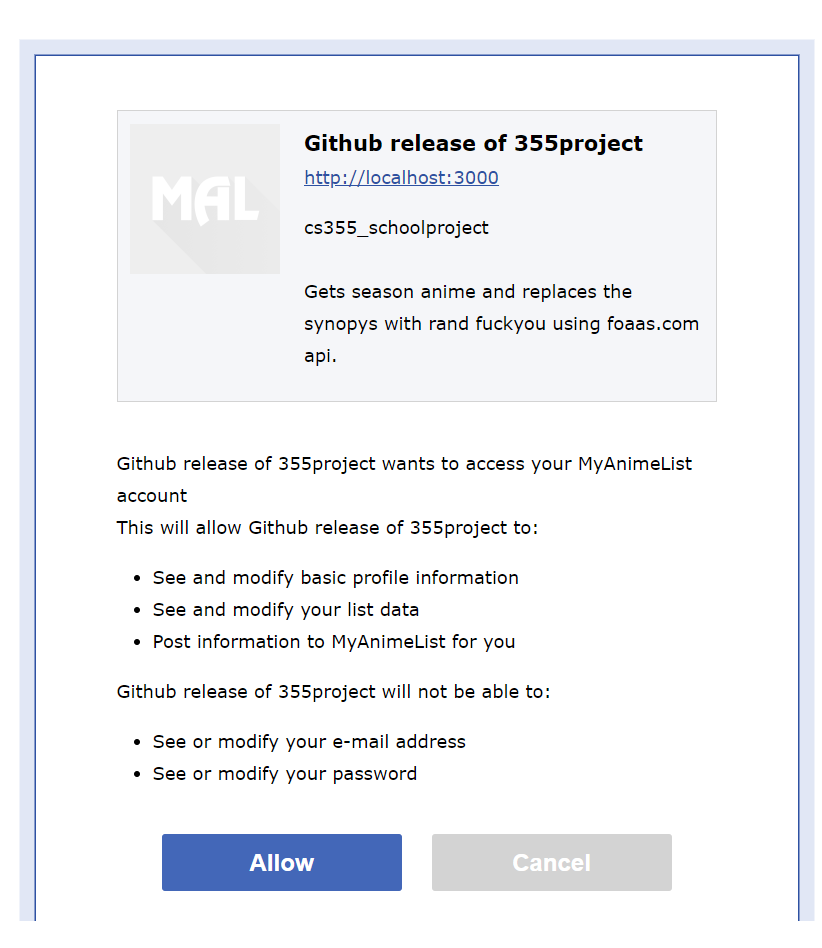
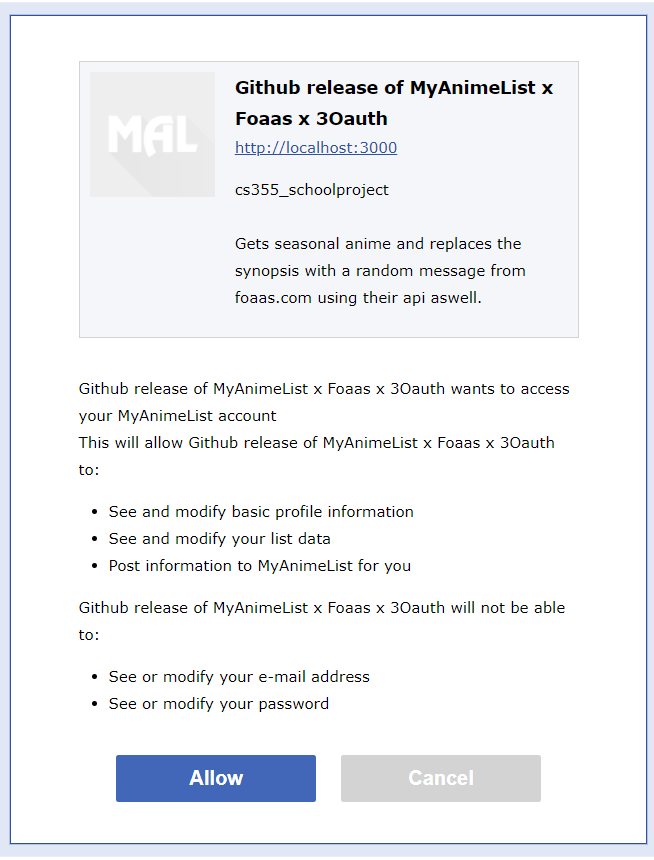
images and readme

diff --git a/README.md b/README.md
@@ -1,3 +1,4 @@
+
 # MyAnimeList x Foaas x 3Oauth - Random Anime suggestor
  This was a project to demonstrate synchronously use Nodejs to do a 3 legged Oauth handshake. Then use myanimelist to randomly suggest an anime. Then to use the name of the suggested anime to give a funny random synopsis of the anime using the FOAAS api services.
 
@@ -9,8 +10,11 @@ steps to run:
 	4) Put in the season, year, and how many animes you would like to see up to 200.
 	Optional: If you would like offensive or non offensive joke suggestions, tick the box!
 	
+# Images
+Example Splash	          
+:-------------------------:|
+<img src="images/splash.png">	
 	
-	![alt text](https://imgur.com/VC99ytw.png)
-	![alt text](https://imgur.com/4UznR8m.png)
-	![alt text](https://imgur.com/yXDZUEK.png)
-	
+Example auth           |  Result image
+:-------------------------:|:-------------------------:
+<img src="images/auth.png">			  |  	<img src="images/result.png">
